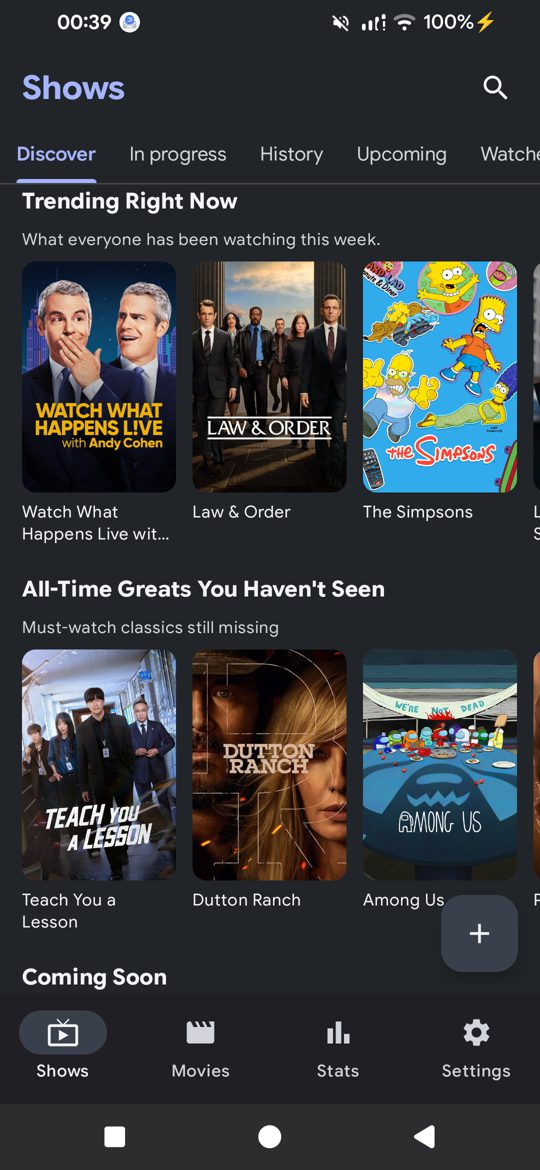
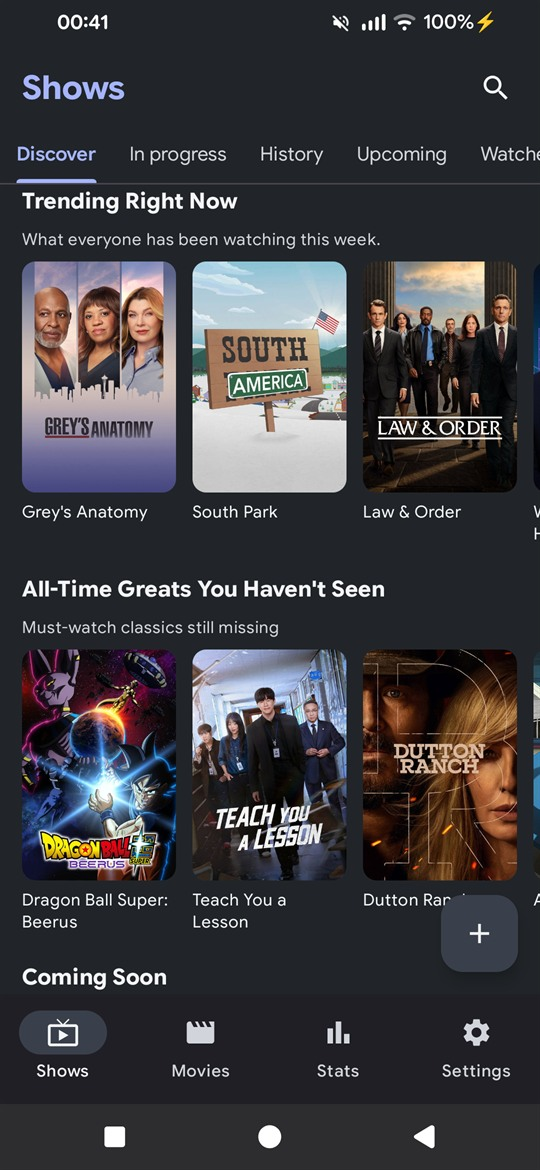
Refresh the screenshots and add license and disclaimer
The screenshots were taken on an early build with a small test library. New
ones from the current app, with the server address in Settings replaced by a
placeholder. The README gains the GPL-3.0 license section and a note that this
is an unofficial client.

diff --git a/README.md b/README.md
@@ -148,10 +148,23 @@ without them the app can never be updated in place again.
 
 ## Notes
 
-- Cleartext HTTP is enabled for self-hosted instances without TLS (see `network_security_config.xml`).
-- Base URLs without a scheme default to `http://` for LAN/loopback addresses and `https://` otherwise.
+- Cleartext HTTP is enabled for self-hosted instances without TLS (see `network_security_config.xml`).- Base URLs without a scheme default to `http://` for LAN/loopback addresses and `https://` otherwise.
 - If an external auth layer (Authelia/SSO) fronts Floppy, ensure `/api/v1/*` is reachable by mobile clients.
 - Settings includes saved server profiles, category filters, reminder lead time, and a permissions/diagnostics probe.
 - Floppy files a tracked title in one *library* (`tv`, `anime`, `movie` or `season`), and the same title can be in more than one of them. The app addresses a title by its library, so a title tracked in the TV library shows up in the Shows tab and the same title in the Anime library in the Anime tab. Which library the anime belong to is Floppy's `anime_library_mode` setting, and the app follows it.
 - The app asks Floppy for a library rather than filtering the answer: `media_type=tv` is the TV library, `media_type=anime` the Anime one. The anime move between the two when the mode changes, and a title's own library field does not follow, so the list - not the field - is what says where a title belongs. The cached pages are keyed by the mode and dropped when it changes.
 - The widget's *Shows* list reads the TV library, the Anime library or both - the **Source** setting, offered only when Floppy has an Anime library of its own. Its sort can run in either direction. A show whose aired episodes are all watched is left out while more are still to come. A refresh that cannot reach Floppy keeps the last list that loaded, so the widget does not blank out. Marking an episode watched from the widget writes into the library the row came from.
+
+## Disclaimer
+
+This is an unofficial, community-built client. It is not affiliated with,
+endorsed by, or supported by the Floppy project or its maintainers. Floppy
+itself is a separate, self-hosted application - please report problems with the
+server there, and problems with this app here.
+
+## License
+
+[GPL-3.0](LICENSE). The app is free software: you can redistribute it and/or
+modify it under the terms of the GNU General Public License as published by the
+Free Software Foundation, either version 3 of the License, or (at your option)
+any later version.
